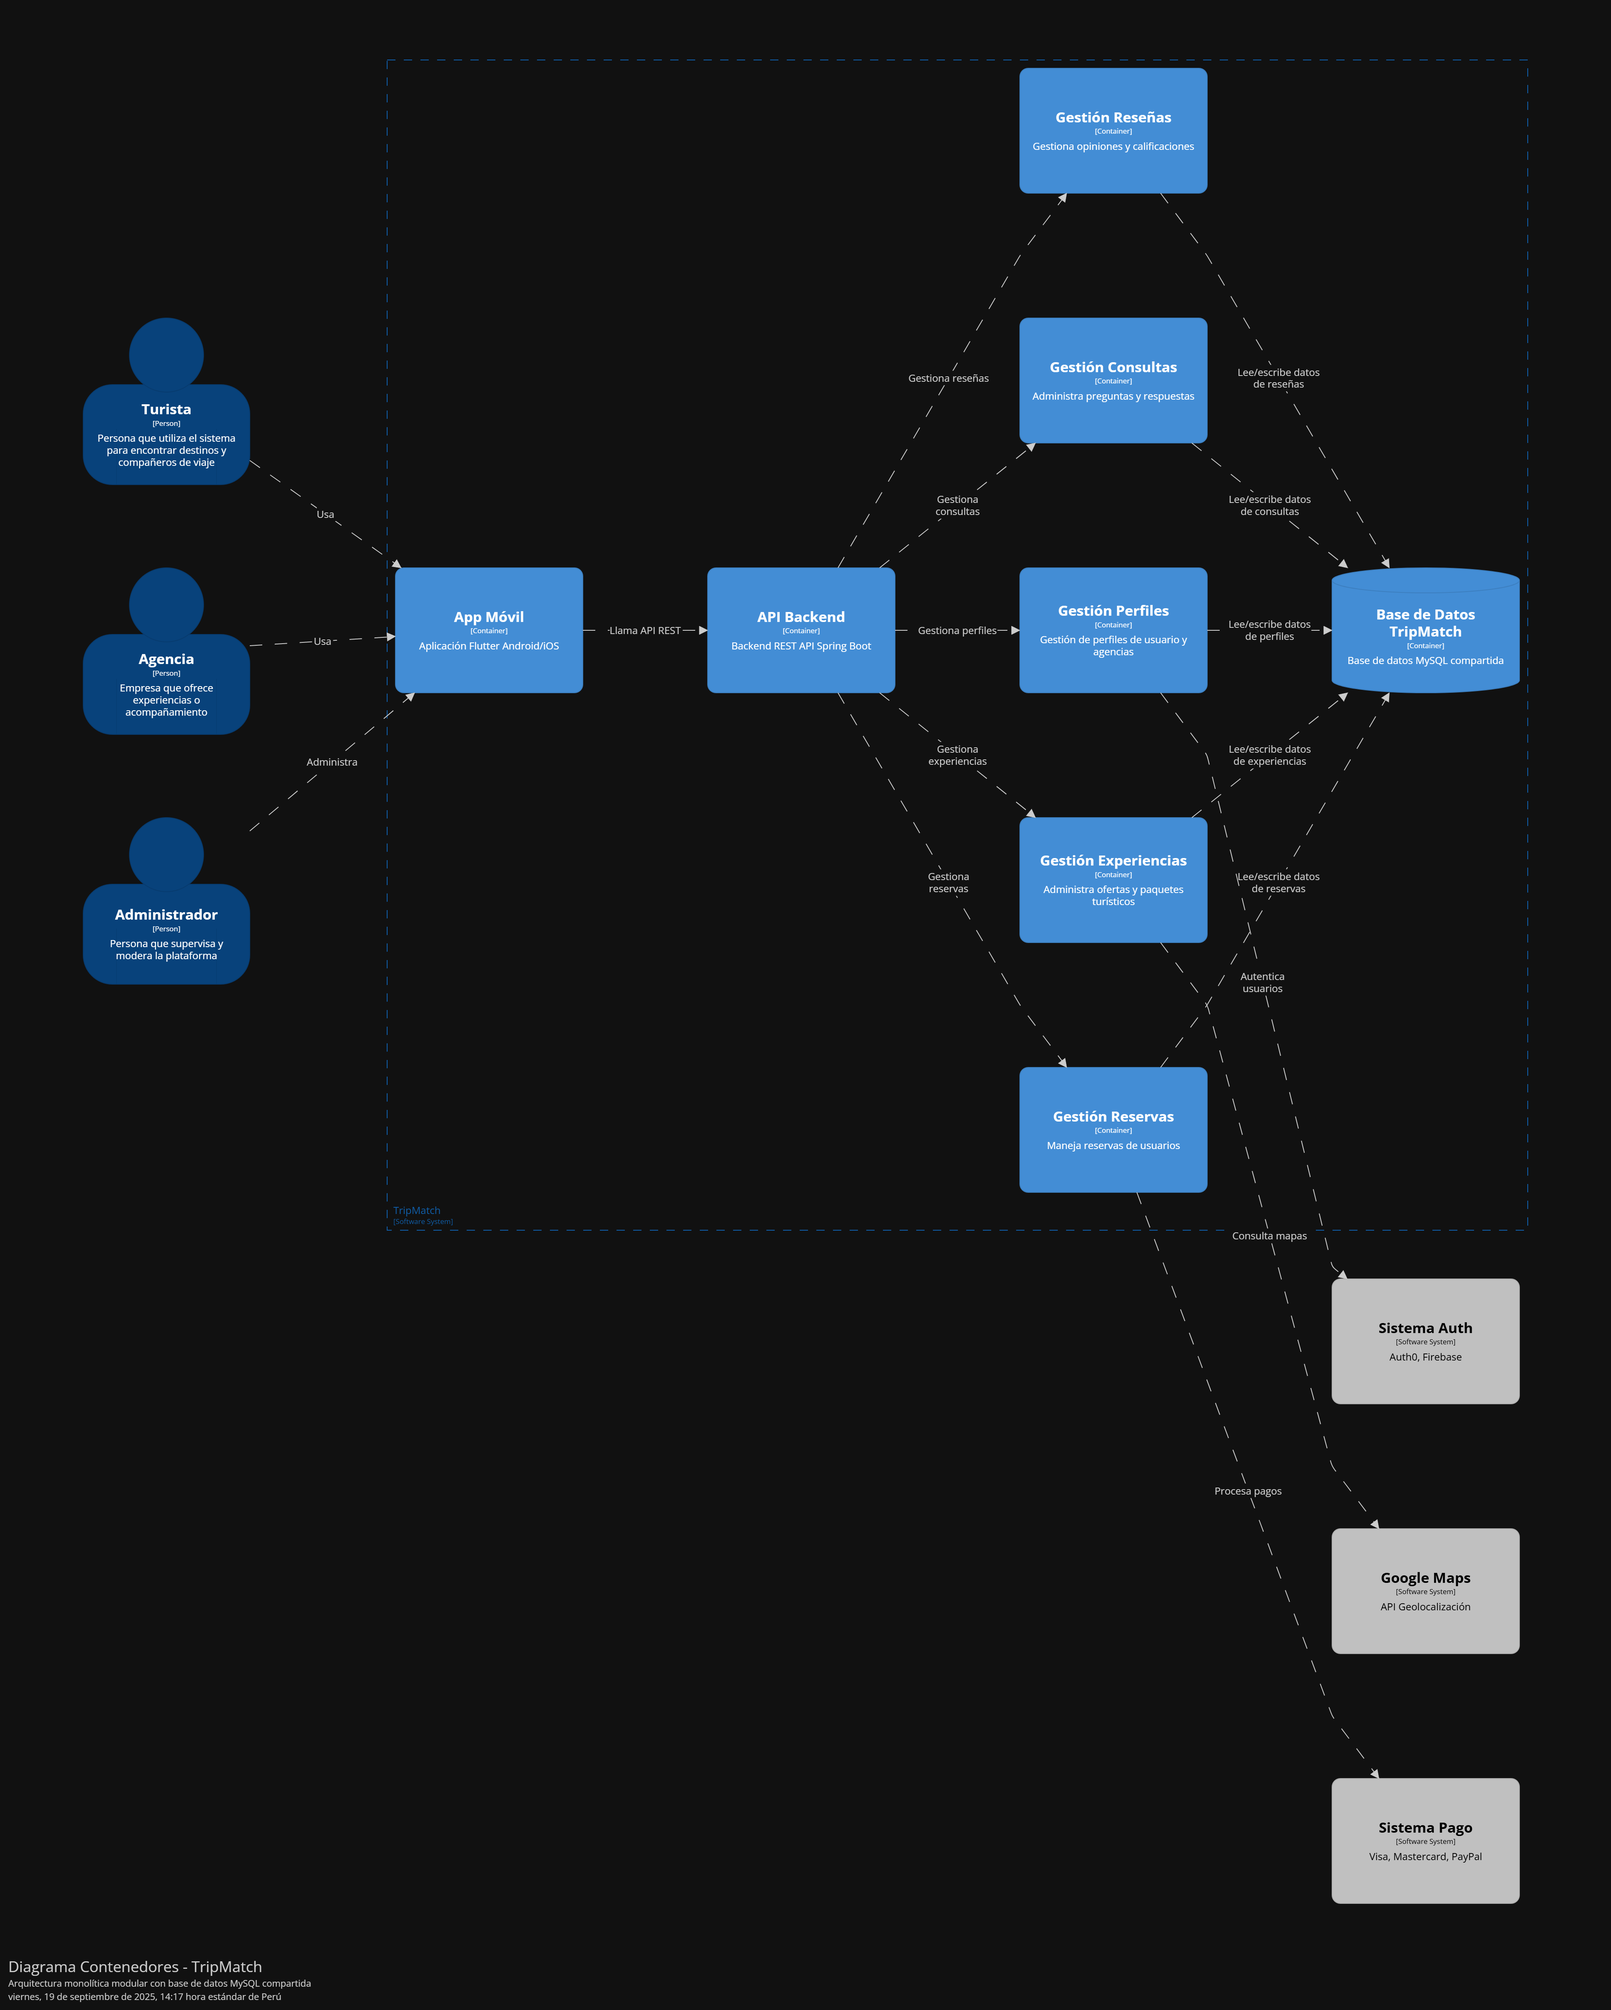
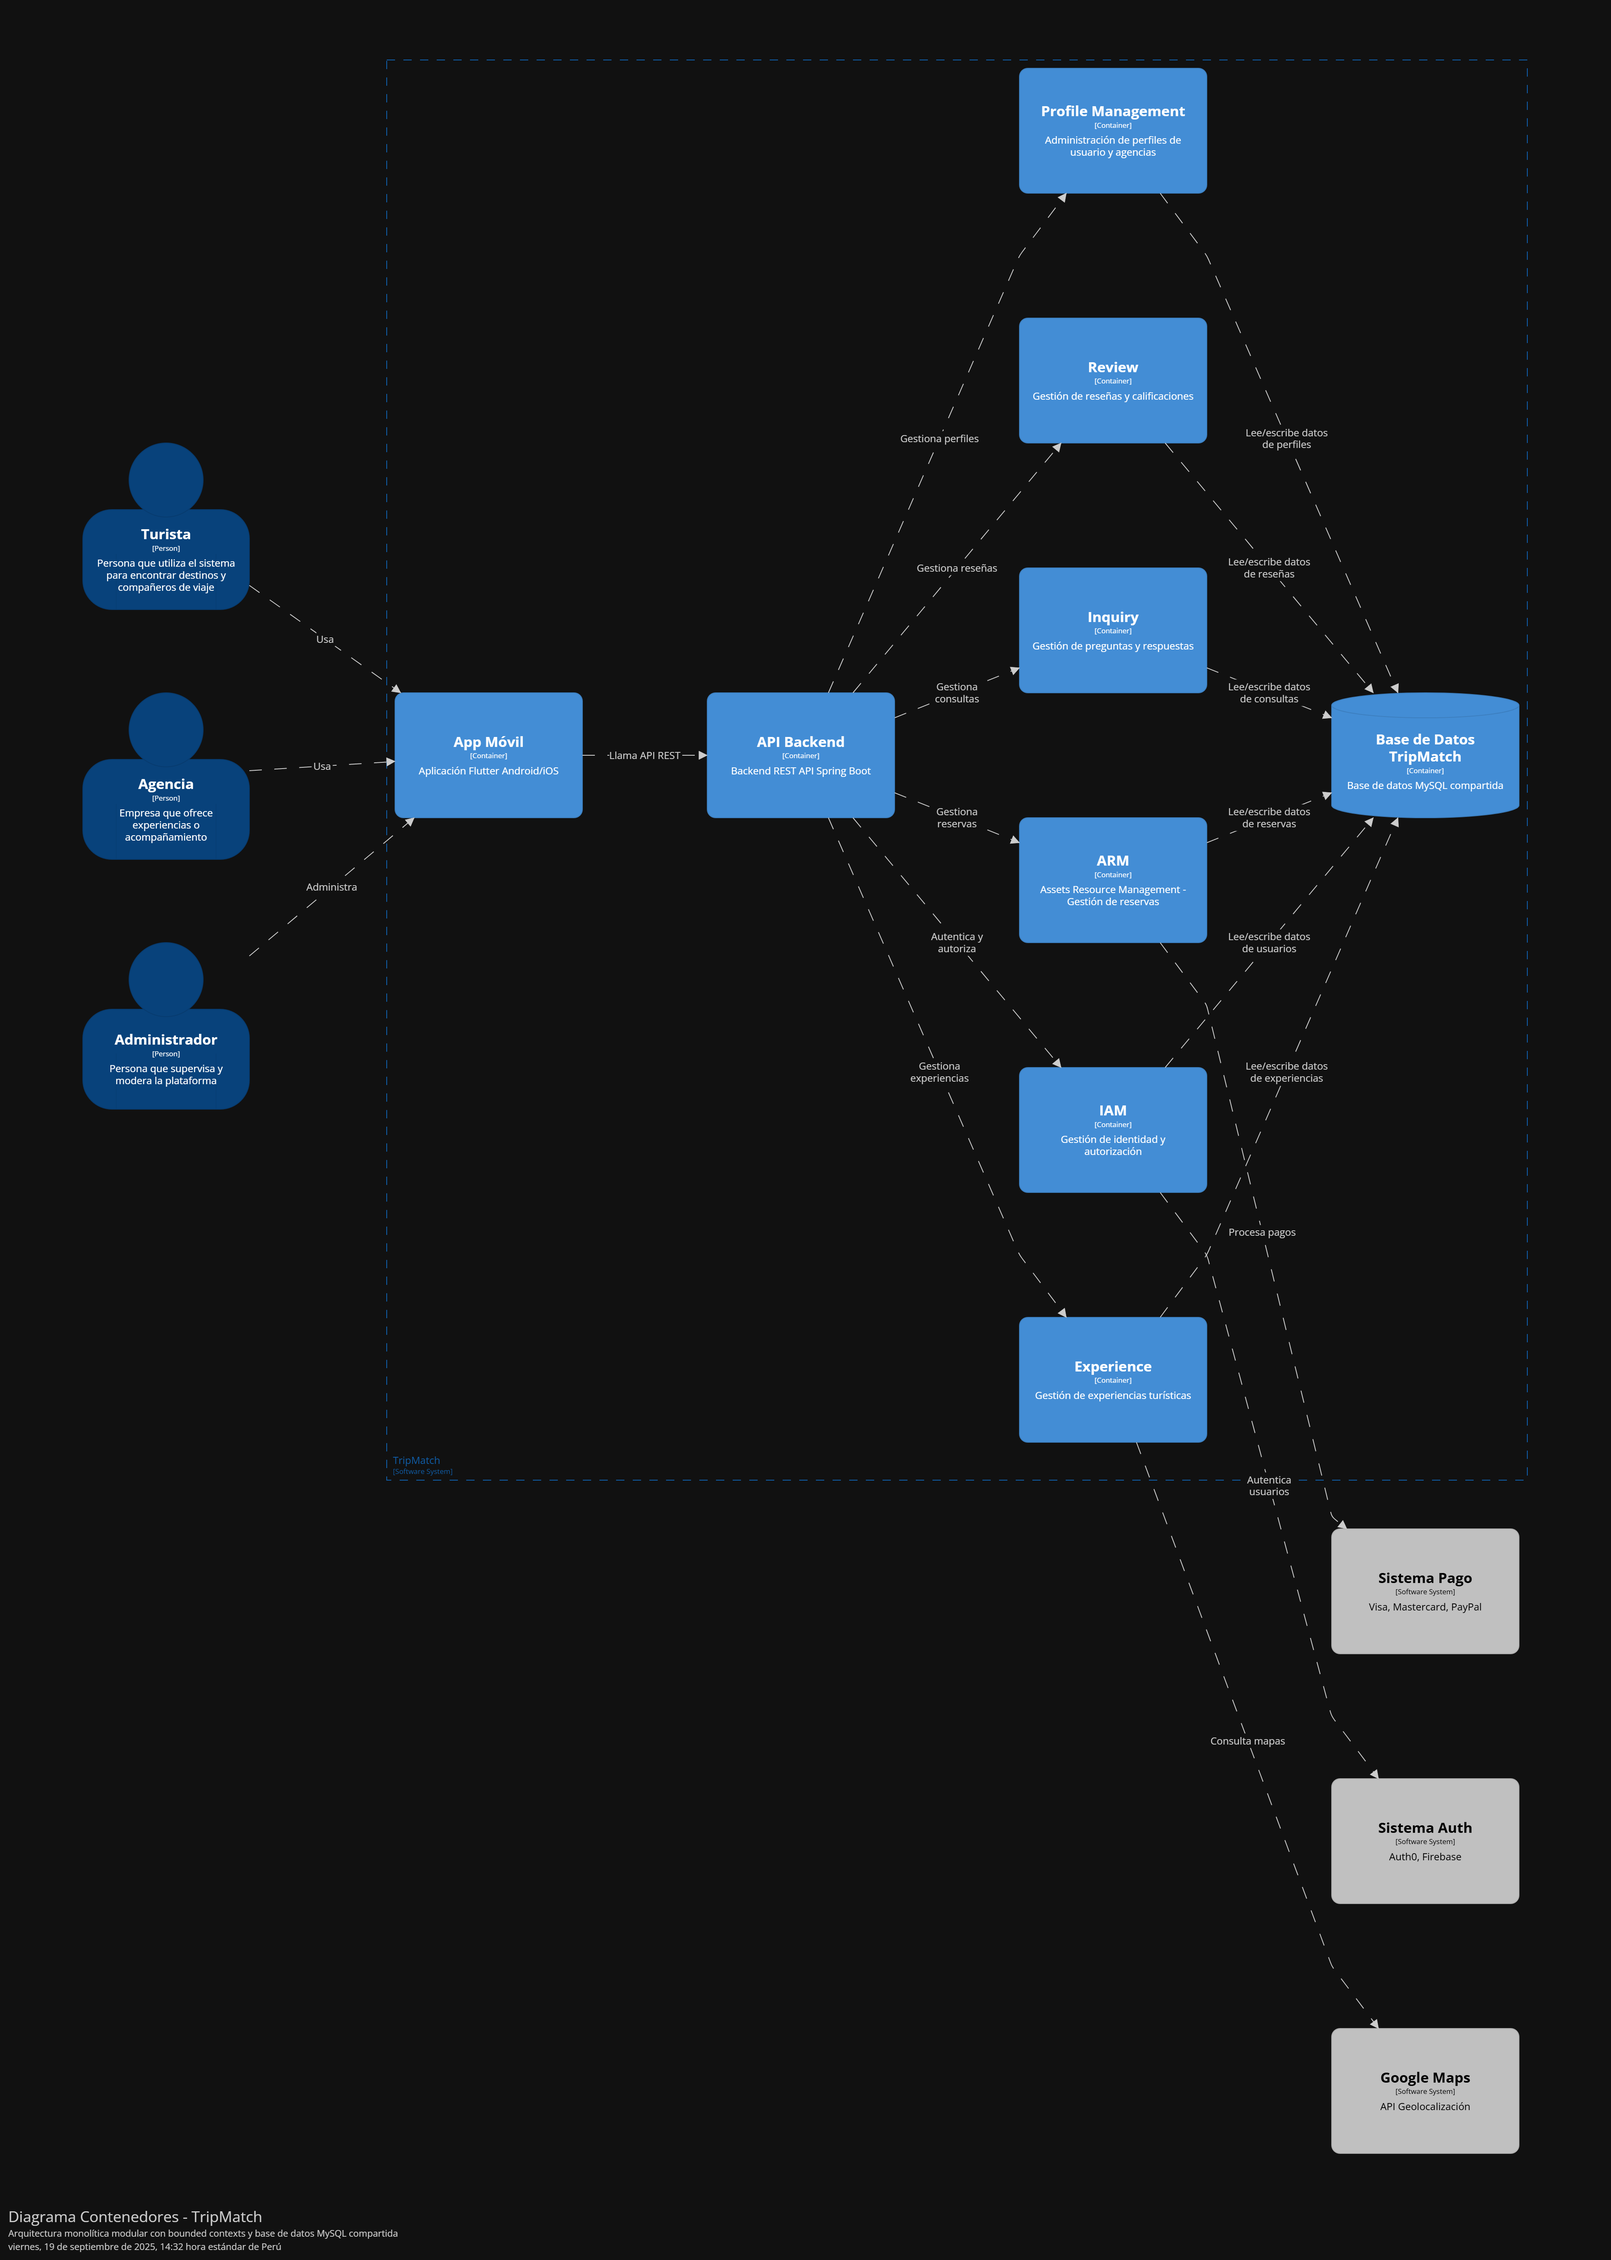
doc: added context mapping

diff --git a/README.md b/README.md
@@ -756,6 +756,51 @@ El Impact Mapping es una metodología visual y ágil que permite a las organizac
 
 ### 2.5.2. Context Mapping
 
+En esta sección, se analizan las relaciones entre los bounded contexts identificados y se asignan patrones de context mapping adecuados para cada uno:
+
+**IAM ➔ Profile Management / Experience / ARM / Inquiry / Review**
+- **Descripción**: IAM actúa como Proveedor de identidad y permisos centralizado. Todos los contextos consumen esta información para garantizar autenticación y autorización antes de realizar acciones operativas.
+
+**Profile Management ➔ Experience / ARM / Inquiry / Review** 
+- **Descripción**: Los contextos operativos necesitan información básica de perfiles de usuarios (turistas y agencias) para validar actores y mostrar datos contextuales en sus operaciones.
+
+**Experience ➔ ARM**
+- **Descripción**: ARM (reservas) necesita información detallada de las experiencias para procesar bookings, incluyendo precios, disponibilidad y datos de la agencia propietaria.
+
+**Experience ➔ Inquiry**
+- **Descripción**: Inquiry requiere validar la existencia de experiencias antes de permitir preguntas, y necesita identificar al propietario de la experiencia para autorizar respuestas.
+
+**ARM ➔ Review**
+- **Descripción**: Review necesita validar que existe una reserva completada entre el turista y la agencia antes de permitir una reseña, garantizando que solo usuarios que experimentaron el servicio puedan calificar.
+
+**Profile Management, Experience, ARM, Inquiry y Review ➔ Analytics (futuro)**
+- **Descripción**: Todos los contextos publican eventos relevantes (registros, reservas, preguntas, reseñas) que Analytics recolectará para construir reportes operativos y dashboards de rendimiento.
+
+### Preguntas estratégicas de reflexión:
+
+**¿Qué pasaría si movemos la gestión de agencias fuera de Profile Management?** Se evaluó crear un contexto "Agency Management" independiente. Sin embargo, se descartó porque las agencias son un tipo especializado de usuario y separar su gestión complicaría el flujo de autenticación y la consistencia de perfiles.
+
+**¿Qué pasaría si combinamos ARM con Experience en un solo contexto "Tourism Management"?** Se consideró esta opción, pero las reservas y las experiencias tienen ciclos de vida y reglas de negocio distintas. ARM se enfoca en transacciones y estados de pago, mientras Experience se centra en contenido y disponibilidad.
+
+**¿Qué pasaría si fusionamos Inquiry y Review en un contexto "Feedback"?** Se analizó, pero las preguntas son pre-compra (información) mientras las reseñas son post-experiencia (evaluación). Sus actores, momentos y propósitos son diferentes, justificando contextos separados.
+
+**¿Qué pasaría si creamos un contexto separado para "Notifications" entre Inquiry y Review?** Se descartó por la escala actual del sistema. Las notificaciones se manejarán como un cross-cutting concern o servicio técnico, no como dominio de negocio.
+
+**¿Qué pasaría si partimos IAM en "Authentication" y "Authorization"?** Se mantuvo unificado porque la gestión de identidad y permisos está intrínsecamente relacionada, y separarlos introduciría complejidad de sincronización innecesaria para el alcance actual.
+
+### Conclusión del análisis:
+- No se crean nuevos bounded contexts adicionales.
+- Se mantienen 6 bounded contexts.
+- Se refuerza que IAM actúa como Supplier centralizado.
+- Profile Management actúa como Supplier de información de usuarios.
+- Experience actúa como Supplier para ARM e Inquiry.
+- ARM actúa como prerequisito para Review (validación de experiencia completada).
+
+El diagrama creado nos permite visualizar las relaciones y dependencias entre los contextos delimitados del sistema. Los bloques representan los Bounded Contexts y las flechas indican la dirección y el tipo de relación Supplier-Consumer entre ellos.
+
+![Diagrama de Contexto](./img/context-mapping.png)
+
+
 ### 2.5.3. Software Architecture
 
 #### 2.5.3.1. Software Architecture Context Level Diagrams
